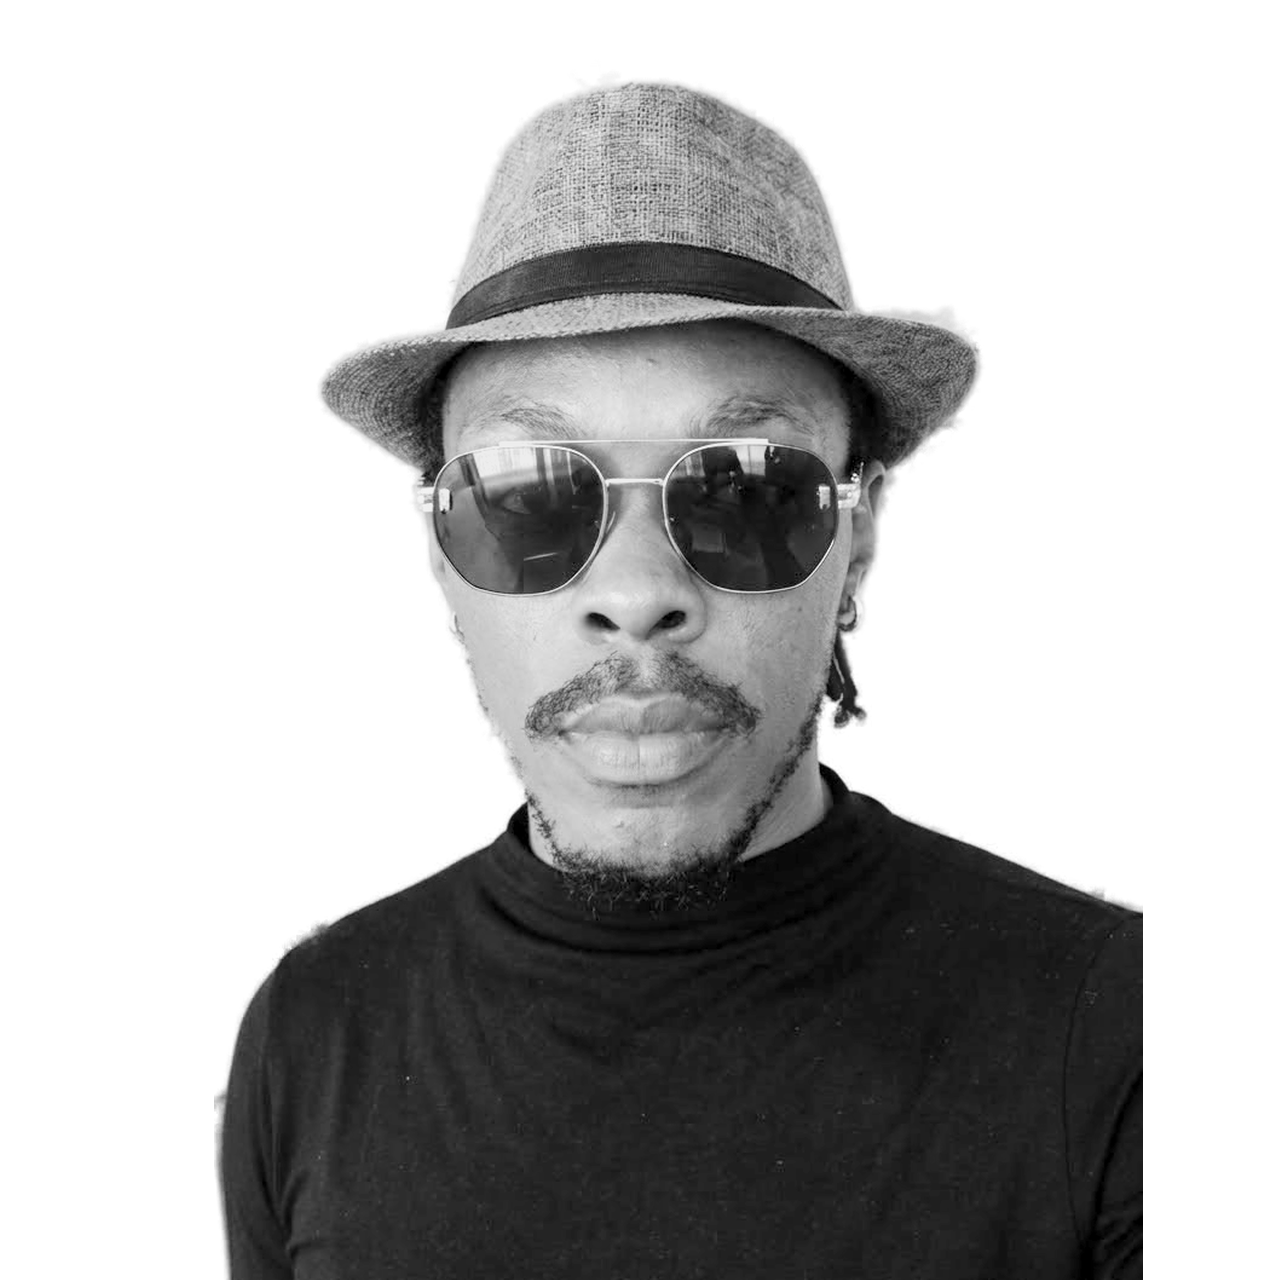
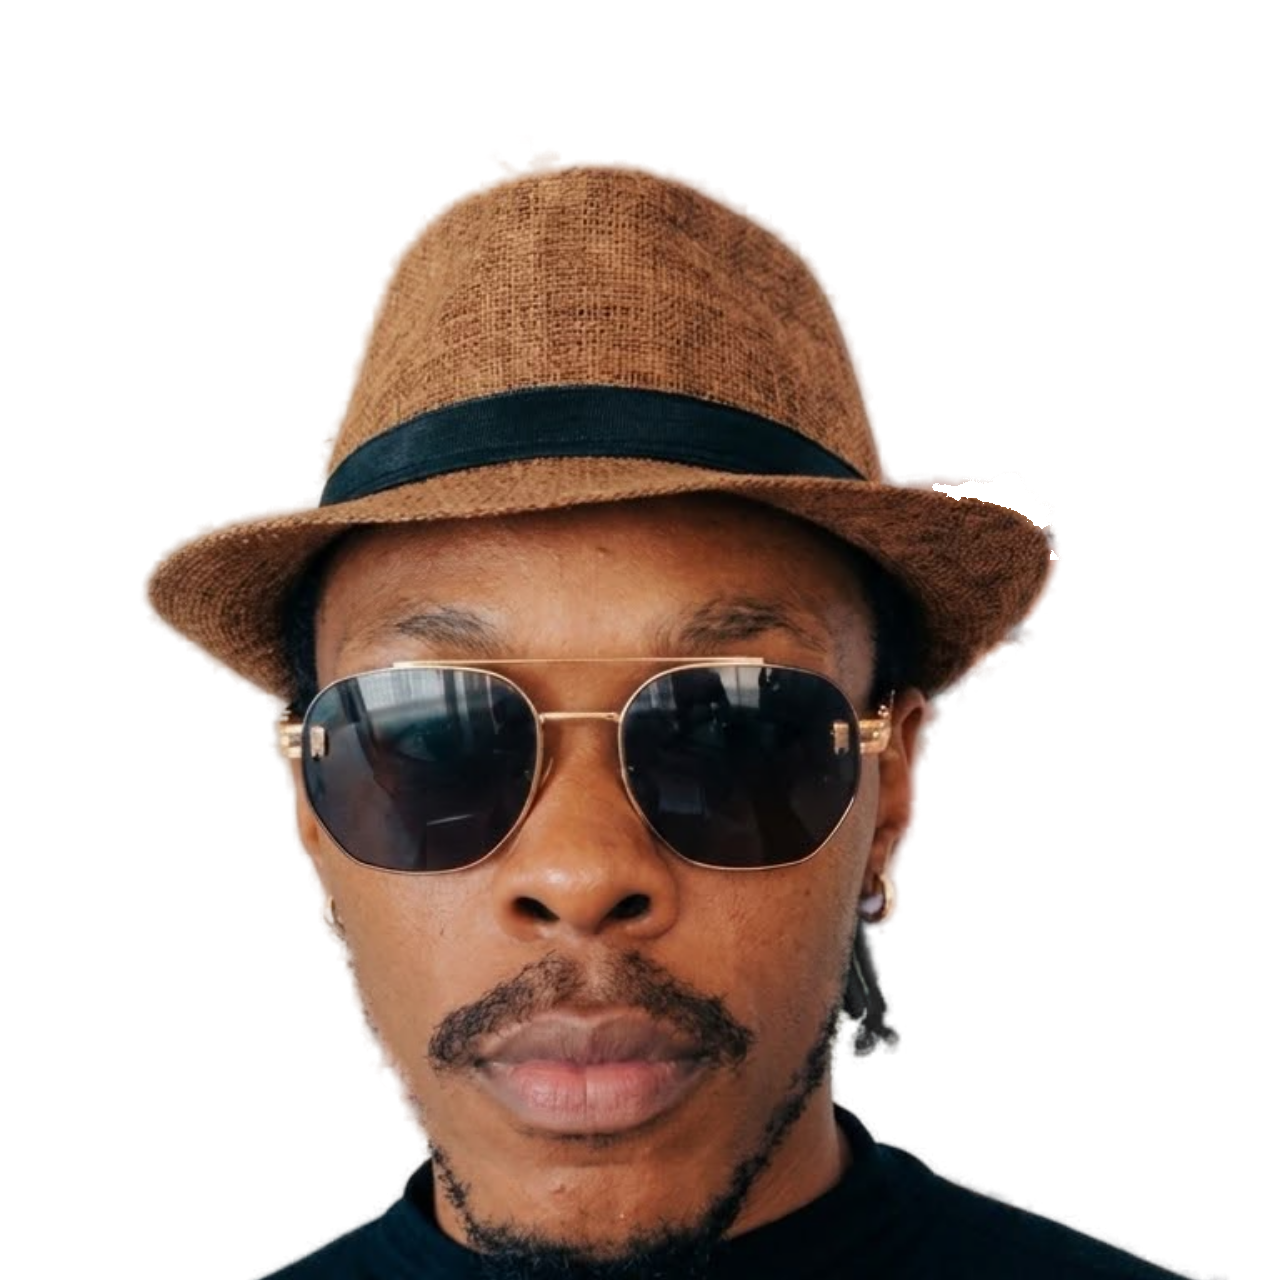
feat(equipa): retratos dos fundadores a cores; Gerson a encher o quadrado
- .qa/retratos.mjs compõe os dois retratos 1280×1280 a partir dos recortes a
  cores com alfa (os de que saíram os monocromáticos de ce1e784)
- Sheinaz: o enquadramento de ce1e784, recuperado por registo do alfa
  (IoU 0,999; escala 1,259, deslocamento −210/43) — só muda a cor
- Gerson: a origem tem 768px de largura; com a escala antiga (1,2095) o tronco
  acabava cortado a direito em x=214 e x=1143. Agora cobre o quadrado
  (1280/768) e o topo do chapéu fica à altura do topo da cabeça dela
- limpeza dirigida: o tufo do fundo laranja que o recorte deixou passar acima
  da aba direita do chapéu, apagado só nessa janela e só pela cor (medida)
- comentários e GAPS B-17 deixam de falar em monocromia

Verificado: cartões a 1440 e 390px, em repouso e com hover; axe 0 em /,
/sobre e /perfil; 546 testes, typecheck e lint.

Claude-Session: https://claude.ai/code/session_01QtarRCp34GgL5ohML7cb6W

diff --git a/components/sections/Founders.tsx b/components/sections/Founders.tsx
@@ -13,7 +13,7 @@ import sheinaz from '@/public/equipa/sheinaz.png';
 /**
  * Perfis de quem lidera.
  *
- * Em repouso: retrato monocromático numa janela quadrada, numeral techno, nome
+ * Em repouso: retrato a cores (`.qa/retratos.mjs`) numa janela quadrada, numeral techno, nome
  * e cargo. No estado activo: chapa de sinal sobre o retrato, com a
  * responsabilidade e a ligação ao LinkedIn.
  *

diff --git a/app/globals.css b/app/globals.css
@@ -423,7 +423,7 @@
 /* -------------------------------------------------------------------------
    Cartão de fundador.
 
-   Repouso: retrato monocromático numa janela quadrada, nome e cargo na
+   Repouso: retrato a cores numa janela quadrada, nome e cargo na
    faixa por baixo. Estado activo: chapa de sinal por cima do retrato, com a
    responsabilidade e o LinkedIn.
 

diff --git a/docs/GAPS.md b/docs/GAPS.md
@@ -28,7 +28,7 @@ resolvida por invenção.**
 | **B-14** | Sem Facebook, YouTube, X, TikTok, sem certificações | `sameAs` e credenciais mais fracos do que podiam ser. O tipo já os aceita |
 | **B-16** | **Sem superfície de marcação de reunião** | `meeting_requested` fica definido e **não é disparado**. O caminho para falar connosco é o diagnóstico, e `diagnostic_submitted` já o mede; dispará-lo no clique de WhatsApp produziria um número com aparência de procura que duplicava `whatsapp_clicked`. O nome fica reservado para o dia em que existir uma agenda a sério |
 | **B-15** | **Primeiro toque entre sessões por decidir** | A atribuição usa `sessionStorage`, e portanto morre com o separador. `localStorage` daria primeiro toque a 90 dias — mas é um identificador persistente por dispositivo, e `/privacidade` promete hoje, por escrito, que «a medição de utilização é agregada e não identifica visitantes individualmente». Estender a janela exige essa decisão **e** a edição da política. Não foi assumido em silêncio |
-| **B-17** | **Os dois retratos dos fundadores estão em registos diferentes** | A fotografia de Gerson é de interior, com chapéu e óculos de sol; a de Sheinaz é um retrato de estúdio. O tratamento monocromático com níveis emparelhados — gama calculada a partir da mediana do rosto, não do sujeito — aproxima-os o suficiente para lerem como um par, e o enquadramento comum alinha a linha dos olhos. **Não os iguala.** Resolve-se com uma fotografia no mesmo registo da segunda, não em código. Registado, não bloqueante |
+| **B-17** | **Os dois retratos dos fundadores estão em registos diferentes** | A fotografia de Gerson é de interior, com chapéu e óculos de sol; a de Sheinaz é um retrato de estúdio. Desde o lote F0 os dois estão **a cores**, recortados sobre o fundo escuro do cartão, e gerados por `.qa/retratos.mjs` a partir dos recortes com alfa: Sheinaz com o enquadramento de ce1e784 (recuperado por registo do alfa, IoU 0,999), Gerson a encher o quadrado como ela — a fotografia de origem tem 768px de largura, e com a escala antiga o tronco acabava cortado a direito com vazio dos lados. O rosto de Gerson fica maior que o de Sheinaz: decisão pedida. **Um retrato novo de Gerson, de estúdio e mais largo, resolve a diferença de registo de vez** |
 | **B-18** | **Este repositório é PÚBLICO** | Verificado na API do GitHub: `"private": false`. Todo o código, os `docs/` e este próprio ficheiro são legíveis por qualquer pessoa — incluindo o registo de que não há clientes nem casos. Os documentos de estratégia (ICP, metas de receita, análise de concorrentes) ficam **fora** do repositório por causa disto. Decisão de visibilidade é sua; registo o facto porque condiciona tudo o que aqui se escreve |
 | **B-19** | **«Cape Town» na lista de mercados globais** | Cape Town é uma cidade, não um país. Resolvido como **África do Sul** — que a pesquisa de mercado chama «a âncora africana lógica». Na mesma lista, Portugal aparecia duas vezes: uma como mercado actual e outra no nível global; o lugar no global passou ao **Canadá**, por constar do scorecard de 27 países da pesquisa. Não foi assumido em silêncio |
 | **B-20** | **Faixas de investimento dos dez mercados globais por validar** | Escritas como constantes na moeda nativa (`content/global/*.ts`), arredondadas a partir das faixas em euros de Portugal — **nunca convertidas por taxa de câmbio**, que envelhece e passa a mentir. Os pesos seguem a escala dos três mercados (6/14/20/25/4), pelo que a pontuação significa o mesmo em todo o lado. **Os valores são uma decisão comercial que não tomei**: CHF 5 000/15 000/50 000, USD 5 500/16 000/55 000, GBP 4 000/13 000/45 000, AED e SAR 20 000/60 000/200 000, ZAR 100 000/300 000/1 000 000, SGD e CAD 7 500/22 000/75 000, EUR 5 000/15 000/50 000. Confirmar antes de campanhas nesses países |
